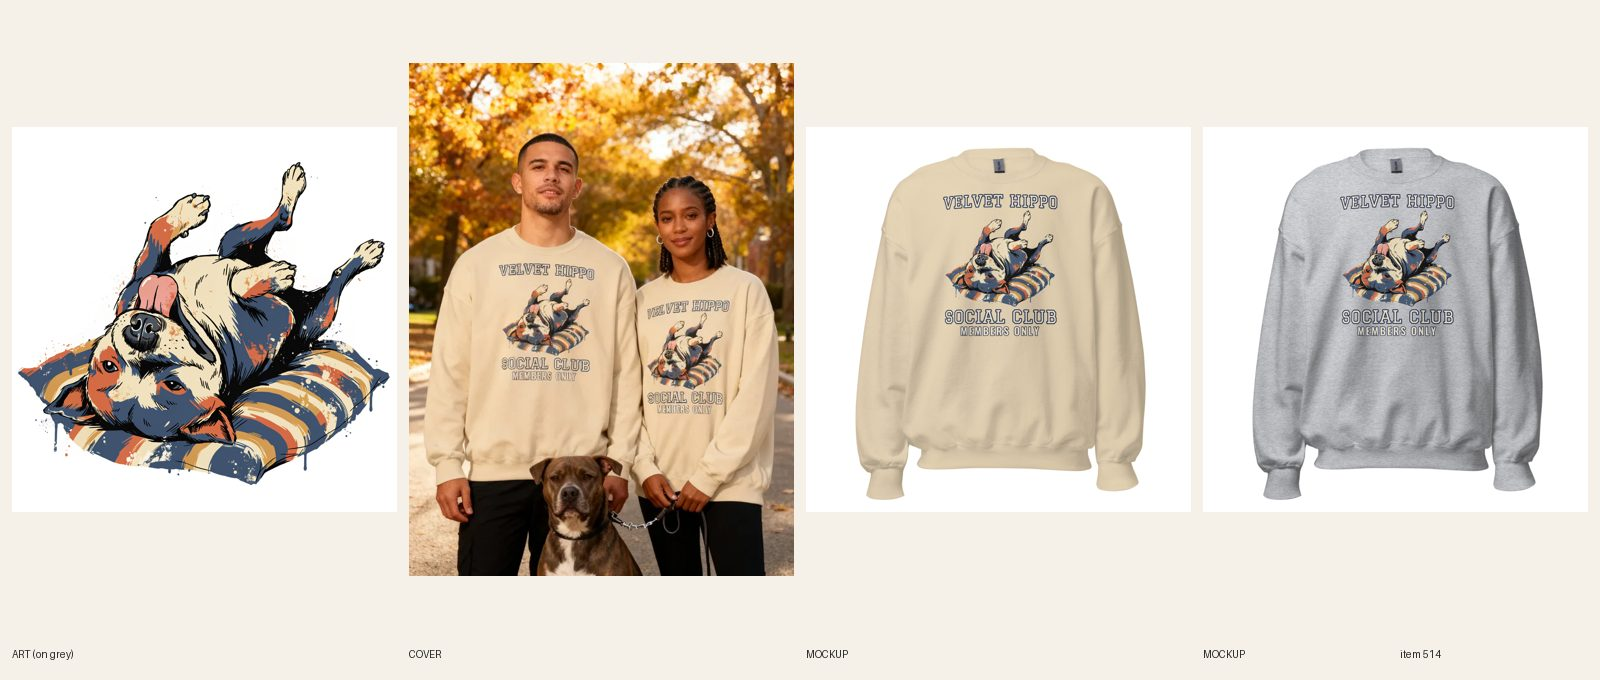
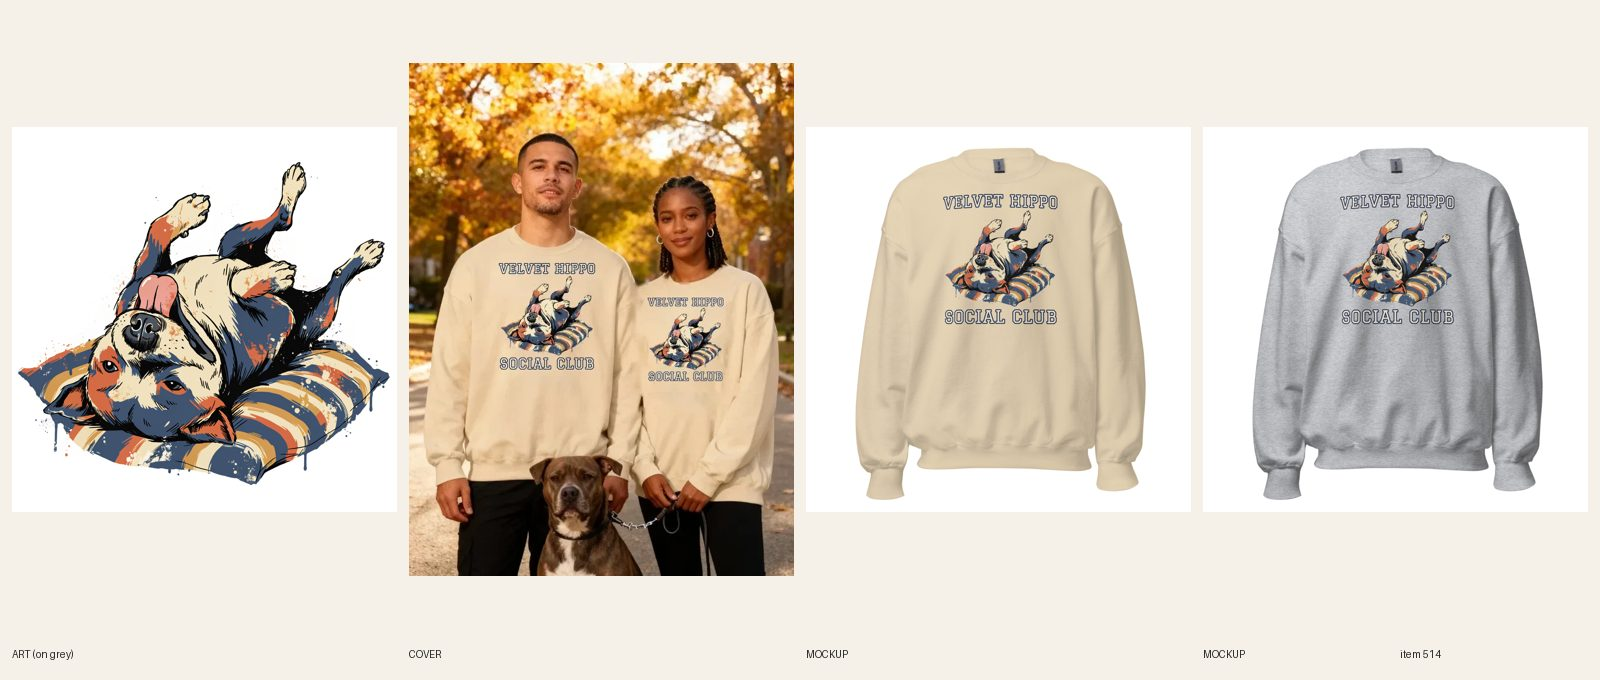
[E] review 514 redo: drop MEMBERS ONLY, new mockups, cover

Changed region(s): [[0.3125, 0.3706, 0.4688, 0.6176], [0.8438, 0.4632, 0.9062, 0.4941], [0.5938, 0.4632, 0.6562, 0.4941]]

diff --git a/docs/pipeline/514-pitbull-crew-velvet-hippo-social-club.md b/docs/pipeline/514-pitbull-crew-velvet-hippo-social-club.md
@@ -1,4 +1,4 @@
-status: BUILDING [E] 2026-10-18 02:00 UTC
+status: REVIEW
 lane: E
 type: new
 id: 514
@@ -30,3 +30,4 @@ kd: 30
 - 2026-10-17 23:22 UTC director: brief written, READY (dog-breed wave 1, keyword and proof measured this run).
 - 2026-10-18 01:50 UTC builder [E]: REVIEW. Etsy check for the exact line not possible from the cloud session (no Etsy browse); director may confirm. Art: 1 Recraft call (try 1 kept; belly-up pittie on striped cushion), VELVET HIPPO / SOCIAL CLUB (Graduate, cream + navy keyline) / MEMBERS ONLY (Oswald 600) set with compose-print (no model lettering); print 11.4 x 13.7 in, FW 1650 TOP 75. Colors Sand + Sport Grey, NOT Navy: navy-dominant ink and navy keyline sink into Navy; one file reads on both (checked on both mockups at phone size, all three lines legible). DRAFT gid 15364322623792, category aa-1-13-14, 12 variants $34.99, compare-at null, tags per brief, keyword pitbull sweatshirt 1,300/30 in line one and meta, 6 FAQs 48-52 words incl. Dec 8. Printful file 1088592404, sync 482645914 12/12. Mockups Sand + Sport Grey + back attached and linked. Cover registry 845+846 try 1: both in crewnecks, dog beside them, leash clear, all words read, no overlap. Variant-photo audit clean; audit --handle only 'not visible'. fal ~$0.2.
 - 2026-10-18 01:19 UTC director: REDO (stays DRAFT). (1) R3.7.4/R3.7.6: drop the MEMBERS ONLY line. It is a registered apparel brand name (Members Only jackets), and at its size it is a thin typeset Oswald line that does not read on the mockup. VELVET HIPPO / SOCIAL CLUB carries the joke alone. Erase it in compose-print, re-link, new mockups, and re-composite the cover print (both people).
+- 2026-10-18 04:20 UTC builder [E]: REDO done, REVIEW. MEMBERS ONLY line dropped (director R3.7.4/R3.7.6): compose-print now VELVET HIPPO / art / SOCIAL CLUB only (11.4 x 12.6 in, FW 1650 TOP 75). New Printful file 1088628375 re-linked to all 12 variants (sync 12/12), new Sand + Sport Grey + back mockups swapped in place with fileUpdate (alts and variant links kept), both lines legible at phone size. Description no longer mentions MEMBERS ONLY. Cover: new print composited on both people (R6.9), the old third line on her chest inpainted; both in crewnecks, dog and leash clear, no overlap. Variant-photo audit clean. fal $0.

diff --git a/docs/intake-log.md b/docs/intake-log.md
@@ -1,4 +1,5 @@
 RUNNING lane C since 2026-10-18 01:55 UTC
+2026-10-18 04:21 UTC — [E] REVIEW #514 (REDO: MEMBERS ONLY dropped, new mockups, cover re-composited on both people).
 2026-10-18 01:51 UTC — [B] REVIEW #521 Women's Mimi – Mimi Says Yes Crewneck (DRAFT, synced 12/12, Sand + Light Pink, FW 1500; fal $0.10).
 2026-10-18 04:01 UTC — [E] REVIEW #486 Goose Plot Twist Pending embroidered crewneck (composite cover, fal ~$0.2).
 2026-10-18 01:47 UTC — [H] Helper run: took over a stale helper lock (00:44 UTC, over 40 minutes old). Telegram inbox empty (getUpdates returned 0 updates; no pause, resume or TikTok links; nothing to consume). Audit (457 products): 1 ERROR, a keyword collision on 'golden retriever sweatshirt' (womens-christmas-golden-retriever-christmas-crewneck-sweatshirt and womens-golden-retriever-i-brought-you-a-sock-crewneck-sweatshirt), sent to docs/inbox.md for the director; 29 warnings left alone; no scripted meta, SEO or collection errors to fix; no price errors, so the announcement bar is unchanged. Category check (one-time rule): 0 products without a category. Site freshness: womens-christian-embroidered-psalm-121-mountain-crewneck-sweatshirt, mens-new-years-new-year-same-guy-graphic-tee, womens-golden-retriever-i-brought-you-a-sock-crewneck-sweatshirt all 200. Stuck check: none (lane A lock since 23:59 and lane B since 23:57, both under 2 hours and committing). Daily summary not due (next after 12:00 UTC). Lock released.
